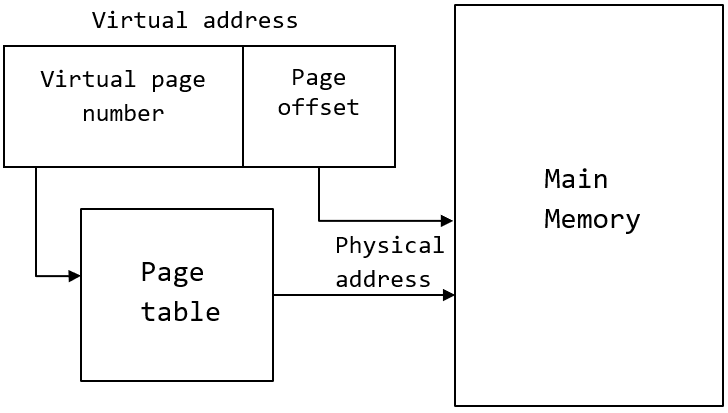
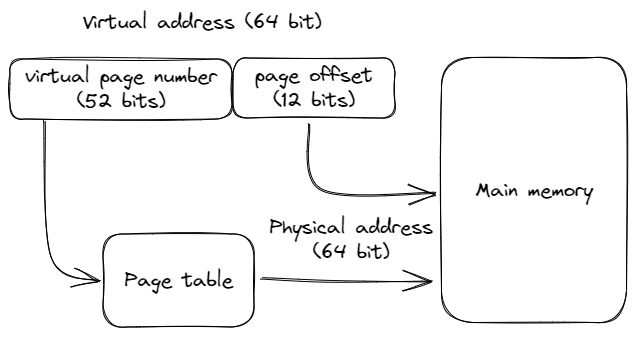
Removed unused images

diff --git a/chapters/3-CPU-Microarchitecture/3-7 Virtual memory.md b/chapters/3-CPU-Microarchitecture/3-7 Virtual memory.md
@@ -6,7 +6,7 @@ In a CPU that supports virtual memory, programs use virtual addresses for their 
 
 Address translation is required for accessing data as well as the code (instructions). The mechanism for a system with a page size of 4KB is shown on Figure @fig:VirtualMem. The virtual address is split into two parts. The virtual page number (52 most signicant bits) is used to index into the page table to produce a mapping between the virtual page number and the corresponding physical page. To offset within a 4KB page we need 12 bits, the rest 52 bits of a 64-bit pointer can be used for the address of page itself. Notice that the offset whitin a page (12 least signicant bits) does not require translation, and it is used "as-is" to access the physical memory location.
 
-![Virtual-to-physical address translation for 4KB pages.](../../img/uarch/VirtualMem2.png){#fig:VirtualMem width=70%}
+![Virtual-to-physical address translation for 4KB pages.](../../img/uarch/VirtualMem.png){#fig:VirtualMem width=70%}
 
 The page table can either be single-level or nested. Figure @fig:L2PageTables shows one example of a 2-level page table. Notice, how the address gets split into more piecies. First thing to mention, is that 16 most significant bits are not used. This can seem like a waste of bits, but even with the remaining 48 bits we can address 256 TB of total memory (2^48^). Some applications use those unused bits to keep metadata, also known as *pointer tagging*.
 
